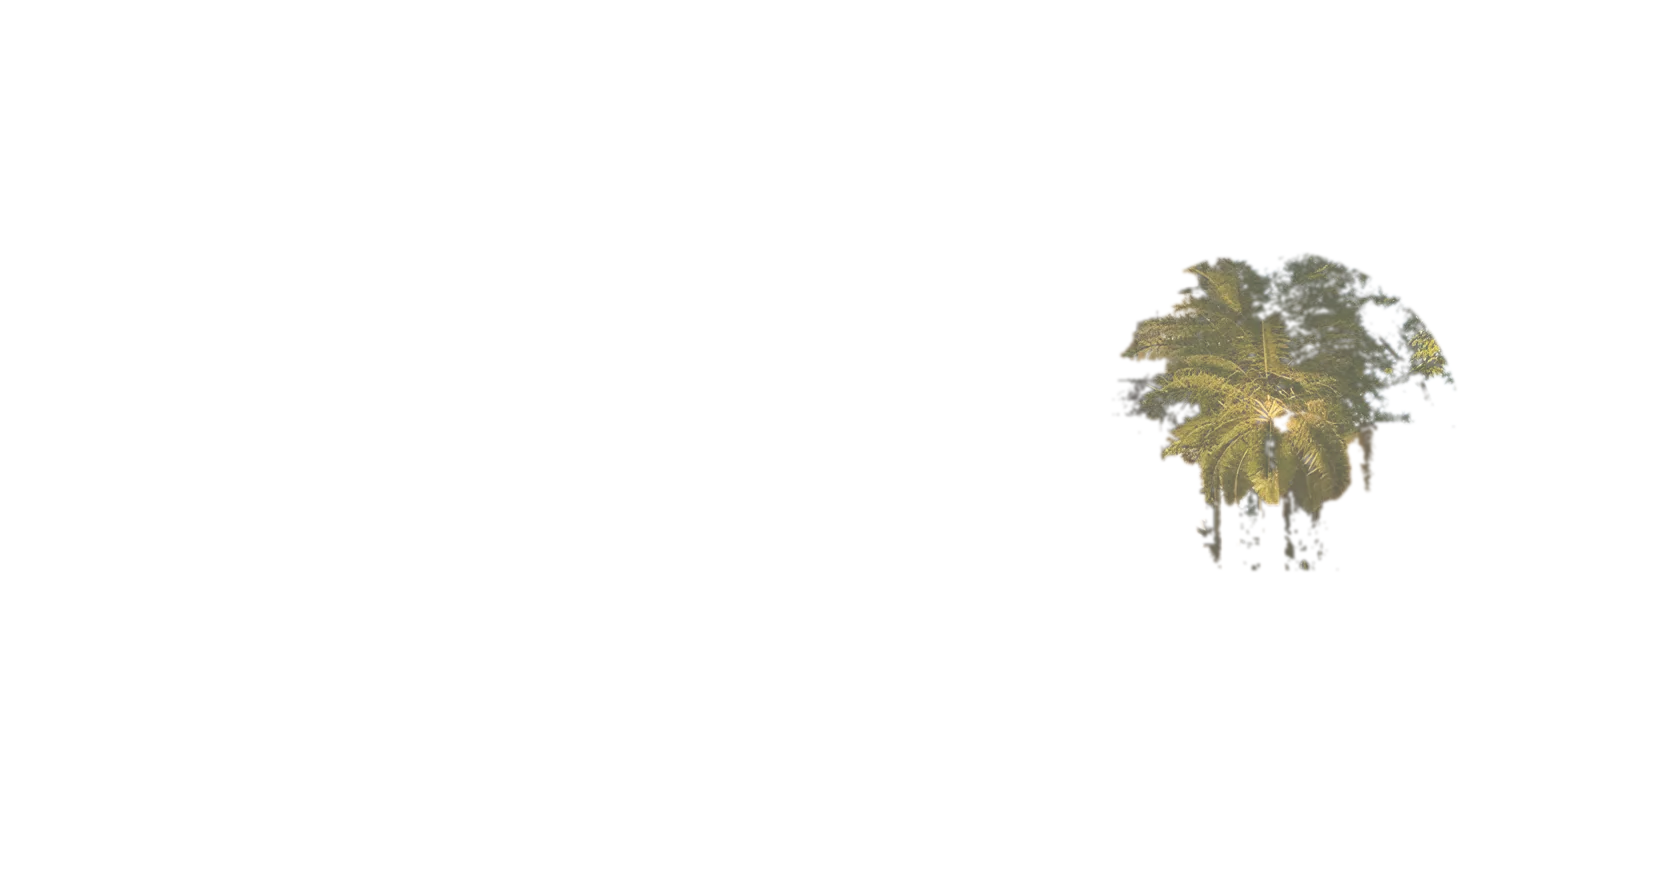
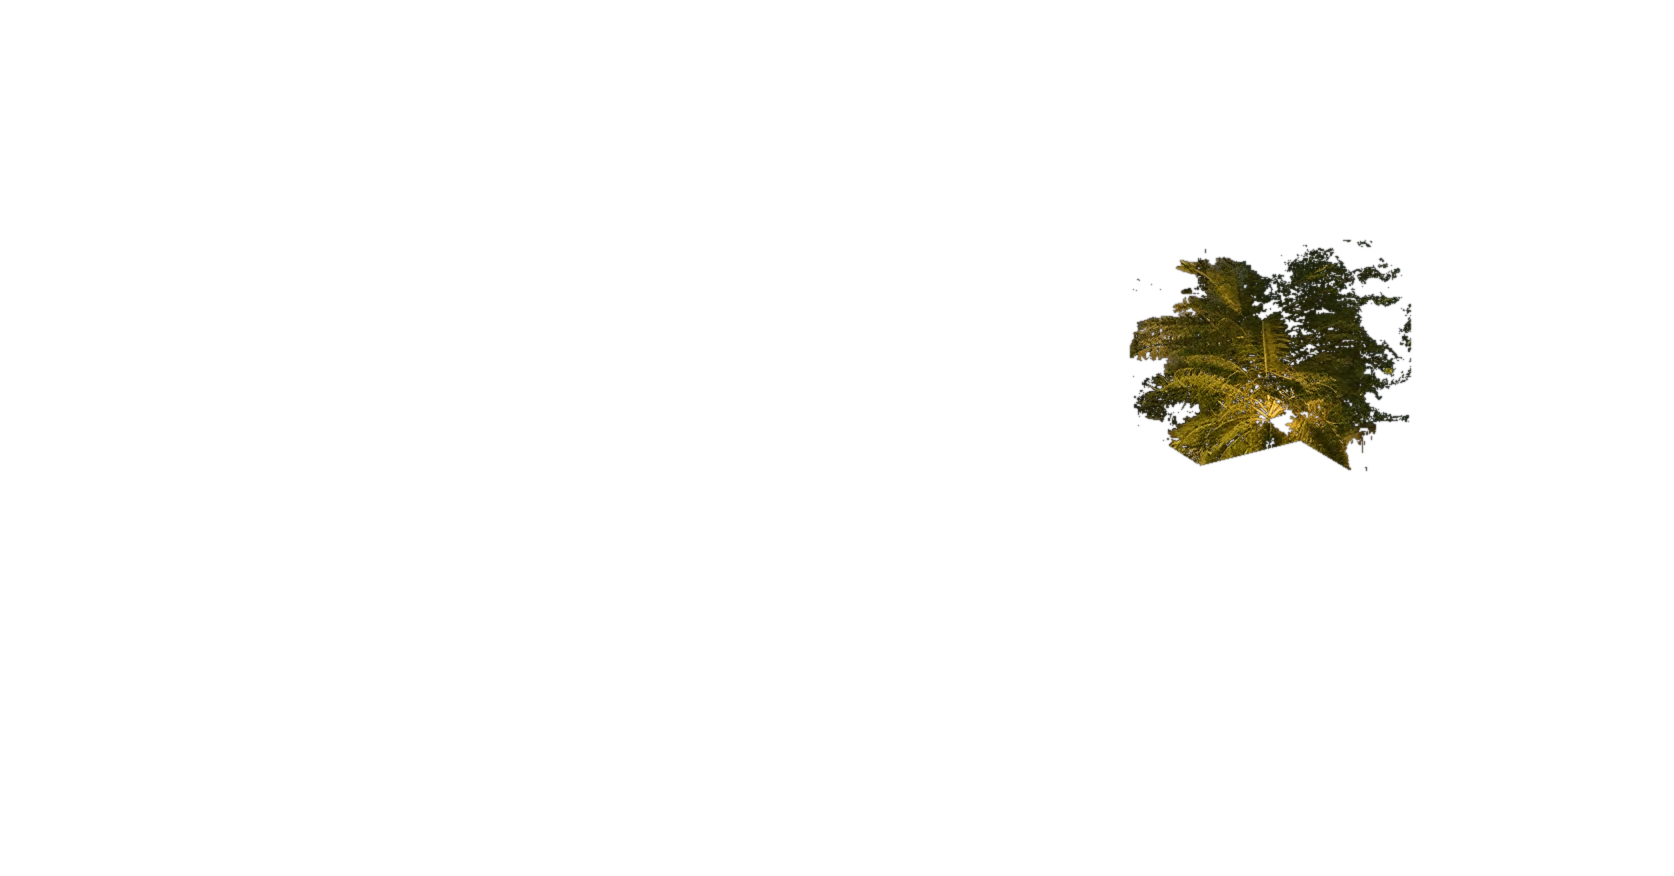
Animate only clean foliage layers

Changed region(s): [[0.6523, 0.2774, 0.8698, 0.6473]]

diff --git a/styles.css b/styles.css
@@ -45,14 +45,14 @@ img { display: block; max-width: 100%; }
 .image-window { overflow: hidden; }
 .image-window img { width: 100%; height: 100%; object-fit: cover; }
 .hero-image img { object-position: center 51%; }
-.hero-foliage { position: absolute; inset: 0; pointer-events: none; will-change: transform; }
-.foliage-left { transform-origin: 10% 43%; animation: foliage-left-sway 7.4s ease-in-out infinite alternate; }
-.foliage-right { transform-origin: 89% 47%; animation: foliage-right-sway 8.6s ease-in-out infinite alternate; }
-.foliage-palm { transform-origin: 76% 76%; animation: foliage-palm-sway 5.8s ease-in-out infinite alternate; }
+.hero-foliage { position: absolute; inset: 0; pointer-events: none; opacity: .72; will-change: transform; }
+.foliage-left { transform-origin: 10% 43%; animation: foliage-left-sway 8.8s ease-in-out infinite alternate; }
+.foliage-right { transform-origin: 89% 47%; animation: foliage-right-sway 10.2s ease-in-out infinite alternate; }
+.foliage-palm { transform-origin: 76% 76%; animation: foliage-palm-sway 7.4s ease-in-out infinite alternate; }
 .hero-shade { background: linear-gradient(90deg, rgba(15,18,19,.85) 0%, rgba(15,18,19,.56) 34%, rgba(15,18,19,.2) 67%, rgba(15,18,19,.04) 100%), linear-gradient(0deg, rgba(9,12,13,.55) 0%, transparent 36%); }
-@keyframes foliage-left-sway { from { transform: translate3d(-.28%, 0, 0) rotate(-.09deg); } to { transform: translate3d(.3%, .08%, 0) rotate(.12deg); } }
-@keyframes foliage-right-sway { from { transform: translate3d(.24%, -.07%, 0) rotate(.1deg); } to { transform: translate3d(-.26%, .06%, 0) rotate(-.12deg); } }
-@keyframes foliage-palm-sway { from { transform: translate3d(-.36%, .06%, 0) rotate(-.16deg); } to { transform: translate3d(.38%, -.08%, 0) rotate(.15deg); } }
+@keyframes foliage-left-sway { from { transform: translate3d(-.1%, 0, 0) rotate(-.035deg); } to { transform: translate3d(.12%, .03%, 0) rotate(.045deg); } }
+@keyframes foliage-right-sway { from { transform: translate3d(.09%, -.025%, 0) rotate(.035deg); } to { transform: translate3d(-.11%, .025%, 0) rotate(-.045deg); } }
+@keyframes foliage-palm-sway { from { transform: translate3d(-.14%, .025%, 0) rotate(-.055deg); } to { transform: translate3d(.15%, -.03%, 0) rotate(.06deg); } }
 .hero-content { position: absolute; inset: auto 0 clamp(3rem, 6.5vw, 6rem); }
 .hero-kicker { display: flex; align-items: center; gap: 1.2rem; margin: 0 0 2rem; font-size: .84rem; font-weight: 500; letter-spacing: .015em; }
 .kicker-rule { display: inline-block; width: 2.4rem; height: 1px; background: rgba(255,255,255,.7); }

diff --git a/index.html b/index.html
@@ -10,7 +10,7 @@
     <link rel="preconnect" href="https://fonts.googleapis.com" />
     <link rel="preconnect" href="https://fonts.gstatic.com" crossorigin />
     <link href="https://fonts.googleapis.com/css2?family=DM+Sans:wght@400;500;600&family=Manrope:wght@400;500;600;700&display=swap" rel="stylesheet" />
-    <link rel="stylesheet" href="styles.css?v=aabe01e7" />
+    <link rel="stylesheet" href="styles.css?v=foliage-fix-20261001" />
     <script src="script.js" defer></script>
   </head>
   <body>
